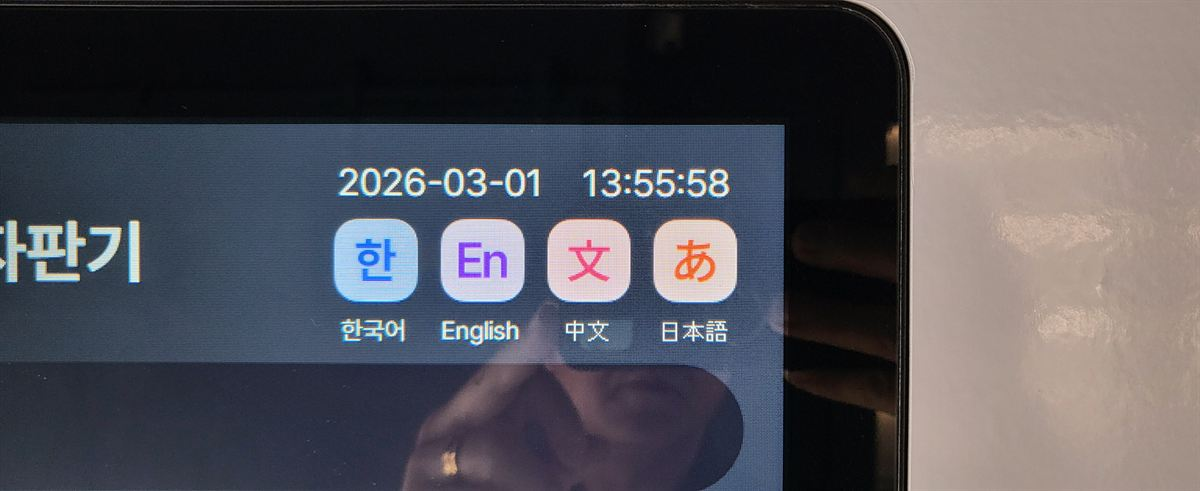
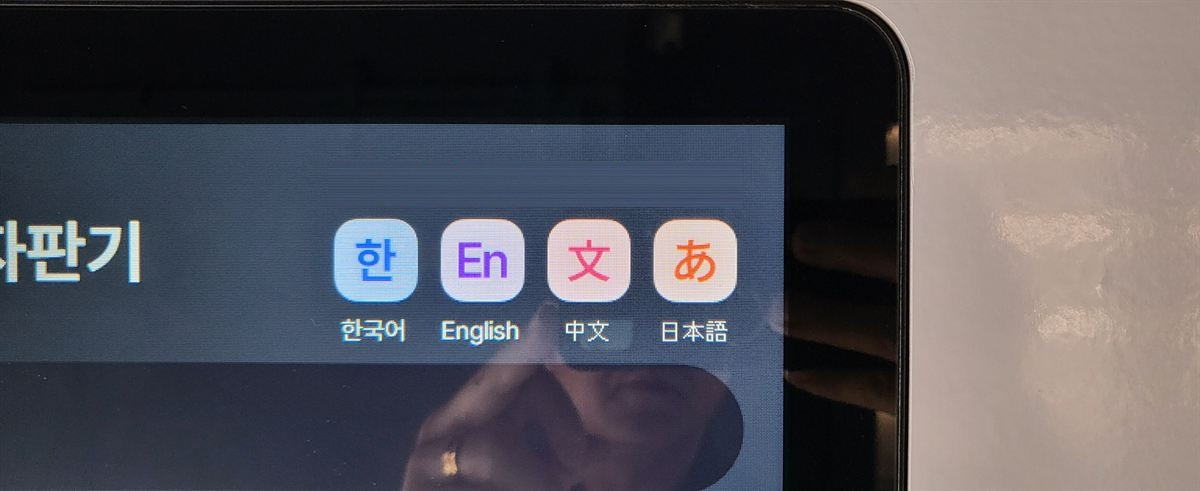
김해 자판기 후기 사진에서 화면 날짜(2026-03-01) 지움 — 설치일과 달라 오해 소지, img 캐시버전 ?v=2

Changed region(s): [[0.2775, 0.336, 0.6167, 0.4277]]

diff --git a/blog/2026-09-18-gyeongnam-gimhae-vending.html b/blog/2026-09-18-gyeongnam-gimhae-vending.html
@@ -29,7 +29,7 @@
   <article class="post">
     <div class="pc-date">2026.09.18 · 김해 자판기</div>
     <h1>김해 무인자판기 설치 완료 — 게스트하우스 4개 국어 터치스크린</h1>
-    <img src="../photos/vendreal-12.jpg" alt="게스트하우스 무인자판기 4개 국어 터치스크린 화면 - H포스" decoding="async" />
+    <img src="../photos/vendreal-12.jpg?v=2" alt="게스트하우스 무인자판기 4개 국어 터치스크린 화면 - H포스" decoding="async" />
 
     <p>"외국인 손님이 오면 결국 제가 나가서 설명해야 하는 거 아닌가요?" 숙소를 하시는 사장님들께 가장 많이 듣는 걱정입니다. 위 사진이 그 답입니다. 화면 오른쪽 위에 <b>한국어·English·中文·日本語</b> 버튼이 나란히 있고, 손님이 원하는 글자를 한 번 누르면 상품 이름부터 결제 안내까지 그 언어로 바뀝니다. 김해는 <b>동상동</b> 일대에 외국인이 많이 찾는 상권이 있고 <b>주촌면·진례면</b> 산업단지에는 외국인 근로자가 근무해, 손님 국적이 다양한 가게일수록 이 화면 하나가 일손을 크게 덜어 줍니다.</p>
 

diff --git a/blog.html b/blog.html
@@ -28,7 +28,7 @@
   </div>
   <div class="posts">
     <a class="post-card" href="blog/2026-09-18-gyeongnam-gimhae-vending.html">
-      <img src="photos/vendreal-12.jpg" alt="게스트하우스 무인자판기 4개 국어 터치스크린 화면 - H포스" loading="lazy" decoding="async">
+      <img src="photos/vendreal-12.jpg?v=2" alt="게스트하우스 무인자판기 4개 국어 터치스크린 화면 - H포스" loading="lazy" decoding="async">
       <div class="pc-body">
         <div class="pc-date">2026.09.18 · 김해 자판기</div>
         <h2>김해 무인자판기 설치 완료 — 게스트하우스 4개 국어 터치스크린</h2>
